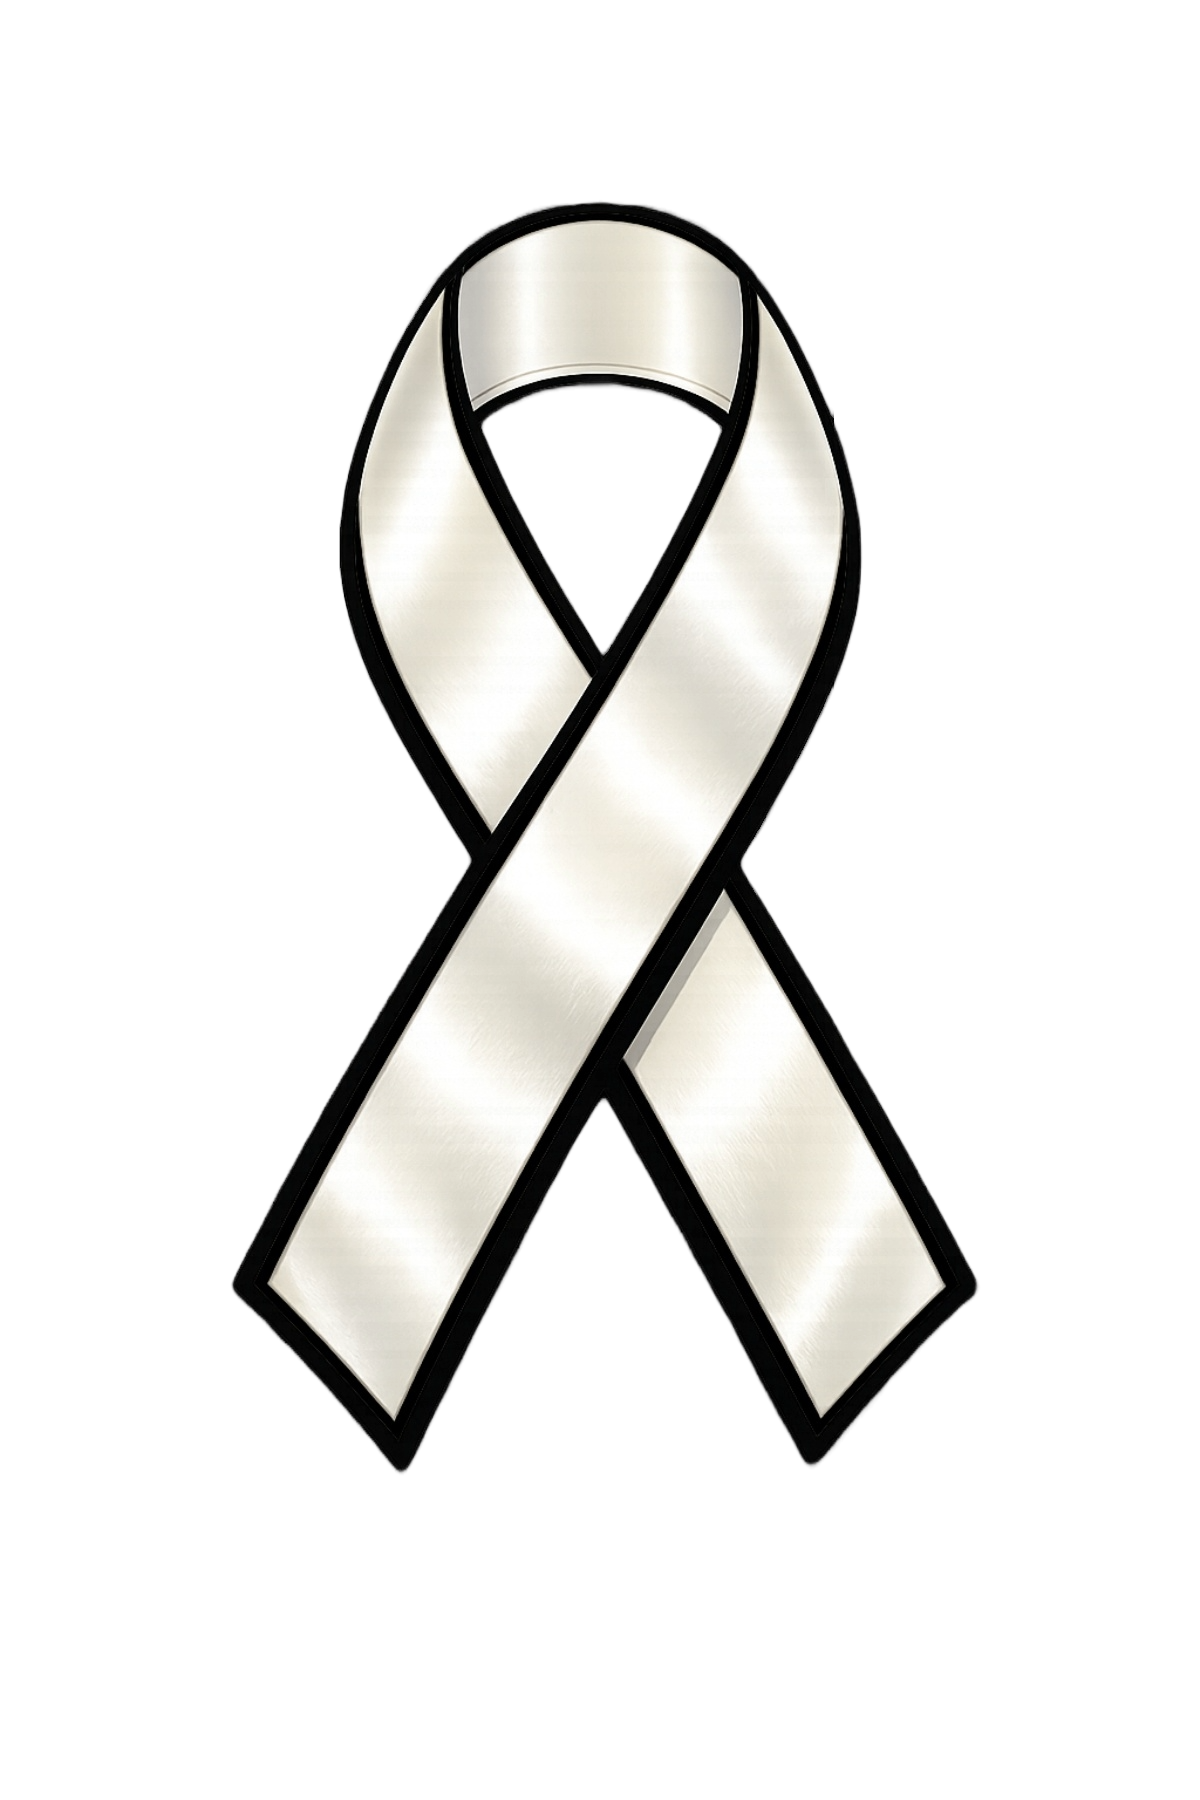
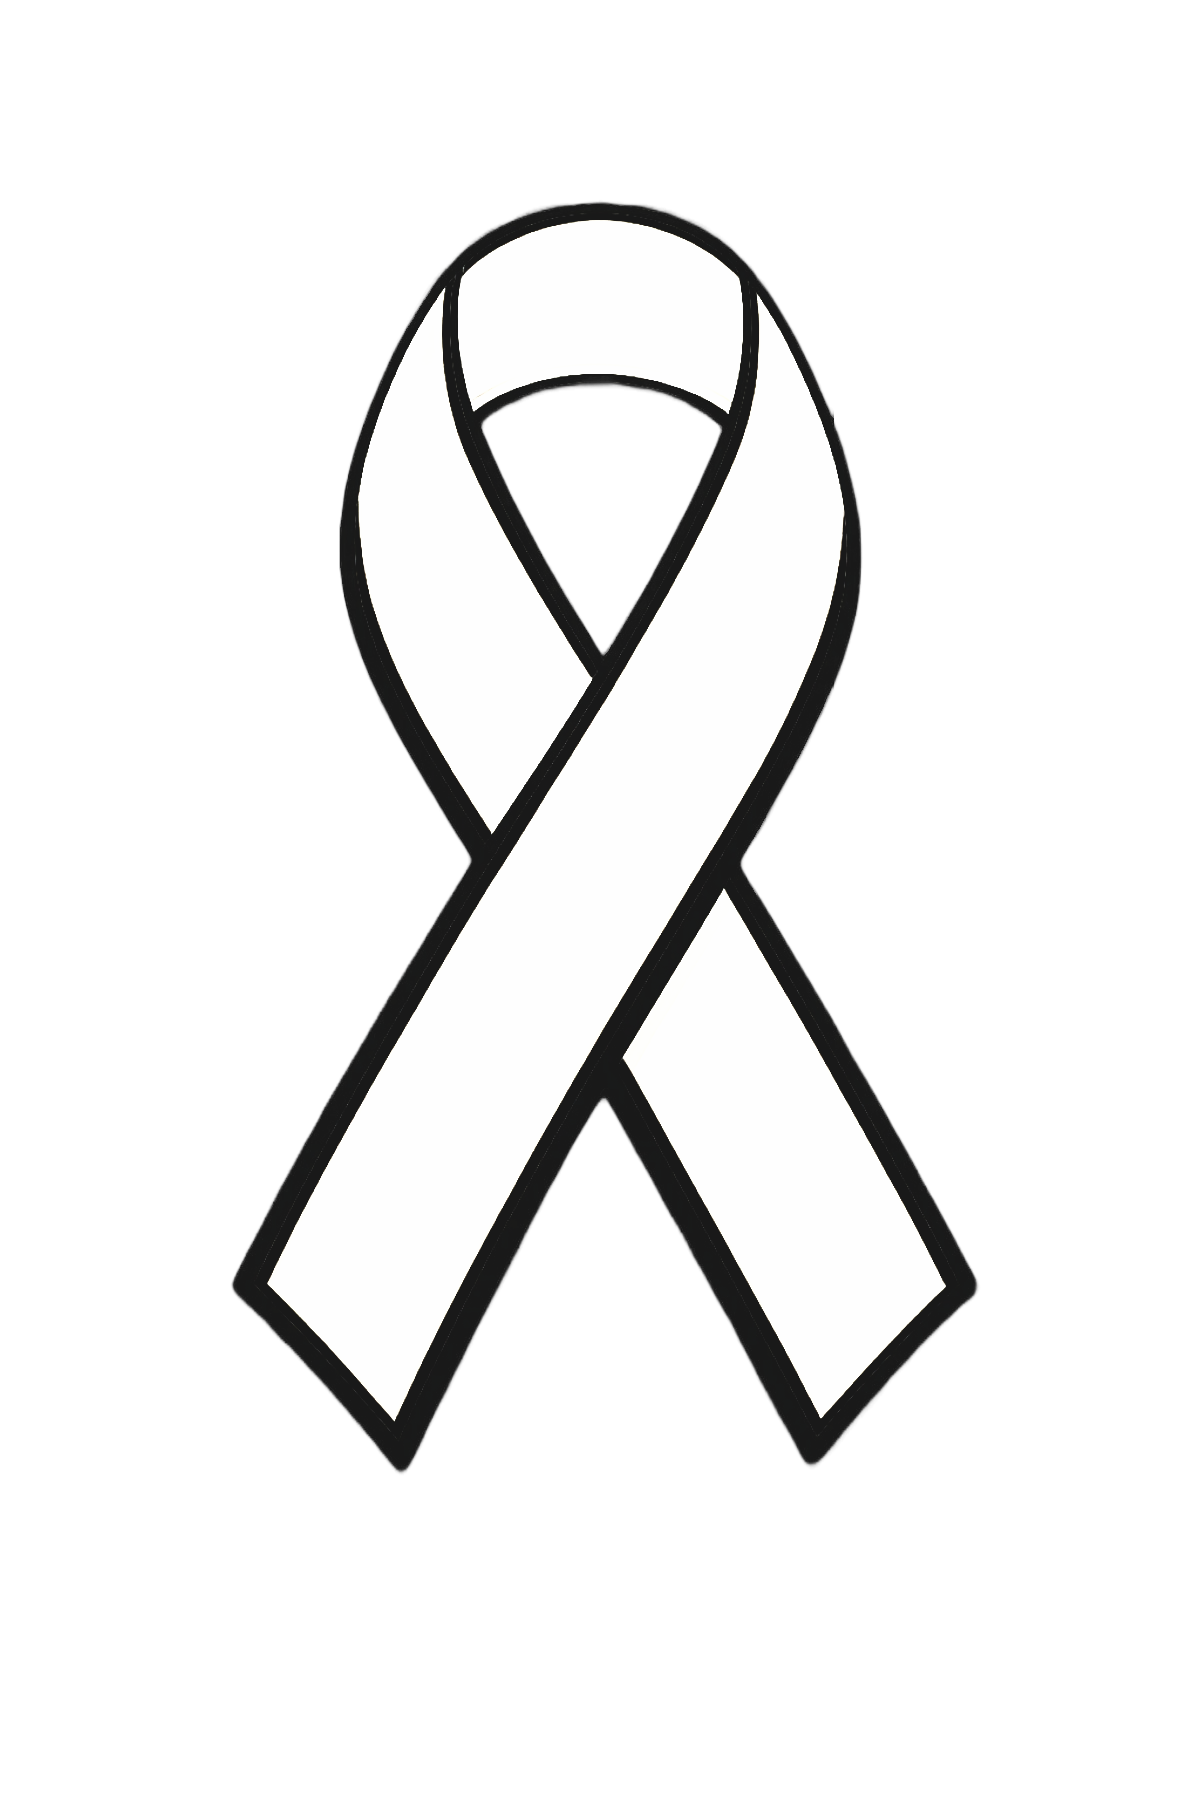
Ažuriranje sajta: imunoterapija, email, PayPal
- Poslednji timeline unos: tekst programa imunoterapije (Nimotuzumab) sa cenama
- mailto adresa: [email redacted]
- PayPal kartica: prikazuje "USKORO" umesto placeholder-a

Changed region(s): [[0.2158, 0.0933, 0.8017, 0.8089]]

diff --git a/index.html b/index.html
@@ -755,11 +755,22 @@
         </div>
         <div class="tl-card">
           <div class="tl-top">
-            <span class="tl-date">📅 [Mesec, Godina]</span>
+            <span class="tl-date">📅 februar 2026</span>
             <span class="badge badge-t">U toku lečenja</span>
           </div>
           <h4>Nova imunoterapija i nova nada</h4>
-          <p>Prelazimo na savremenu imunoterapiju. Lekari su puni optimizma i mi verujemo u pozitivan ishod svim srcem.</p>
+          <p><strong>Program se sastoji iz:</strong></p>
+          <p><strong>Medicinska evaluacija:</strong><br>
+          Konsultacije sa specijalistom onkologije.</p>
+          <p><strong>Tretman vakcinama:</strong><br>
+          Nimotuzumab 24 ampule (faza indukcije 6 doza)<br>
+          Sastavljanje medicinskog izveštaja i preporuke specijaliste.</p>
+          <p><strong>UKUPNA CENA USLUGA: <strong style="color:var(--amber)">9.530,44 $</strong></strong></p>
+          <p>Faza održavanja: 1 doza na svake dve nedelje intravenozno tokom 5 meseci, zatim se primenjuje mesečno istom dozom do progresije ili regresije bolesti.</p>
+          <p><strong>UKUPNA CENA USLUGA: <strong style="color:var(--amber)">15.836,40 $</strong></strong></p>
+          <p>Što u ukupnom zbiru prve dve faze iznosi <strong style="color:var(--amber)">25.366,84 $</strong></p>
+          <p>Za kasniju fazu jednom mesečno treba izdvojiti <strong style="color:var(--amber)">1.588,40 $</strong>.</p>
+          <p>Pacijent mora doneti termos za prenos leka.</p>
         </div>
       </div>
     </div>
@@ -799,7 +810,7 @@
         <h3>Reč ohrabrenja</h3>
         <p>Poruka podrške znači mnogo. Pošalji nam toplu reč — svaki podsticaj je izvor snage u teškim momentima.</p>
         <!-- ▶ ZAMENI email adresom -->
-        <a href="mailto:[[email redacted]]?subject=Podrška%20za%20Anu%20Pupić" class="btn btn-amber btn-sm">Pošalji poruku</a>
+        <a href="mailto:[email redacted]?subject=Podrška%20za%20Anu%20Pupić" class="btn btn-amber btn-sm">Pošalji poruku</a>
       </div>
     </div>
   </div>
@@ -914,11 +925,7 @@
             <div class="pay-label" style="margin-bottom:.35rem">PayPal</div>
             <div class="paypal-field">
               <span class="pp-logo">Pay<span>Pal</span></span>
-              <span class="pay-val" id="pp">[[email redacted]]</span>
-              <button class="copy-btn" onclick="doCopy('pp',this)" aria-label="Kopiraj PayPal email">
-                <svg width="13" height="13" viewBox="0 0 24 24" fill="none" stroke="currentColor" stroke-width="2" aria-hidden="true"><rect x="9" y="9" width="13" height="13" rx="2"/><path d="M5 15H4a2 2 0 0 1-2-2V4a2 2 0 0 1 2-2h9a2 2 0 0 1 2 2v1"/></svg>
-                Kopiraj
-              </button>
+              <span class="pay-val" id="pp" style="font-family:var(--font-b);font-size:.95rem;color:var(--text-muted);font-style:italic;letter-spacing:normal">USKORO</span>
             </div>
           </div>
 